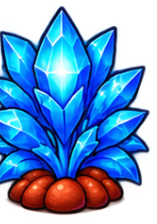
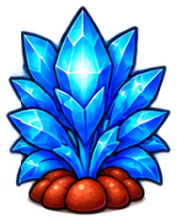
Preview locked planets and repair laboratory sprite framing

diff --git a/src/screens/PlanetsScreen.jsx b/src/screens/PlanetsScreen.jsx
@@ -5,7 +5,7 @@ import { PLANETS } from "../game/data/planets.js";
 import { EARTH_TUTORIAL_STAGE_ID } from "../game/data/missionIntro.js";
 import { playGameSound } from "../game/audio/audioManager.js";
 import { getPendingLaboratoryStage, hasLaboratoryAttention } from "../utils/laboratoryProgress.js";
-import { canNavigateToPlanet, getInitialExpandedPlanetId, getOrbitStage, getPlanetIdForStage, getPlanetSelectorModel, getStageClickAction } from "./planetSelectorModel.js";
+import { getAdjacentPlanets, getInitialExpandedPlanetId, getOrbitStage, getPlanetIdForStage, getPlanetSelectorModel, getStageClickAction } from "./planetSelectorModel.js";
 import { getMenuAssetUrl } from "./menuModel.js";
 import { getPauseAssetUrl, RETURN_ICON_FILE } from "./pauseModel.js";
 import { setOrbitTargetElement } from "./rocketOrbit.js";
@@ -58,9 +58,7 @@ export function PlanetsScreen({ progress, completedStageId, preferredPlanetId, p
   const planet = PLANETS.find(({ id }) => id === selectedPlanetId) ?? PLANETS[0];
   const model = getPlanetSelectorModel(planet, progress);
   const laboratoryAttention = hasLaboratoryAttention(progress);
-  const planetIndex = PLANETS.findIndex(({ id }) => id === planet.id);
-  const previousPlanet = PLANETS[planetIndex - 1];
-  const nextPlanet = PLANETS[planetIndex + 1];
+  const { previousPlanet, nextPlanet } = getAdjacentPlanets(planet.id);
   const numberFormat = new Intl.NumberFormat("pt-BR");
   const endlessRecord = `Recorde: ${numberFormat.format(model.endless.highScore)} pts`;
   const endlessLabel = model.endless.unlocked
@@ -75,15 +73,15 @@ export function PlanetsScreen({ progress, completedStageId, preferredPlanetId, p
     playGameSound("discovery");
   }, [model.unlocked, onMarkPlanetSeen, planet]);
 
-  const canGoBack = previousPlanet && canNavigateToPlanet(planet.id, previousPlanet.id, progress);
-  const canGoForward = nextPlanet && canNavigateToPlanet(planet.id, nextPlanet.id, progress);
   const activeStage = model.stages.find((stage) => stage.available && !stage.completed);
   const orbitStage = getOrbitStage(model.stages, selectedStageId);
   const showFirstStageHint = selectionGuide === "first-flight" && planet.id === "earth" && !progress.onboarding?.earthTutorialSeen;
   const showLaboratoryGuide = selectionGuide === "laboratory" && planet.id === "earth" && getPendingLaboratoryStage(planet, progress) !== null;
   const baseClass = `phase-selection-canvas phase-selection-canvas--${planet.id}${revealingPlanetId === planet.id ? " is-revealing" : ""}`;
 
-  const launchStage = (stageId, targetElement) => {
+  const launchStage = (stage, targetElement) => {
+    if (!stage.available) return;
+    const { id: stageId } = stage;
     setEndlessSelected(false);
     setOrbitTargetElement(activeStageElementRef, targetElement);
     if (getStageClickAction(selectedStageId, stageId) === "select") {
@@ -153,7 +151,7 @@ export function PlanetsScreen({ progress, completedStageId, preferredPlanetId, p
             <img className="phase-selection-identity__planet" src={`${APP_BASE}assets/ui/planets/${planet.id}-icon.webp`} alt="" aria-hidden="true" />
             <div className="phase-selection-identity__copy">
               <span className="phase-selection-identity__name">{planet.name}</span>
-              <span className="phase-selection-identity__subtitle">{PLANET_SUBTITLES[planet.id]}</span>
+              <span className="phase-selection-identity__subtitle">{model.unlocked ? PLANET_SUBTITLES[planet.id] : "Planeta bloqueado"}</span>
             </div>
           </div>
 
@@ -212,7 +210,7 @@ export function PlanetsScreen({ progress, completedStageId, preferredPlanetId, p
                   aria-describedby={guided ? "phase-selection-guide-hint" : undefined}
                   aria-pressed={selectedStageId === stage.id}
                   aria-label={`${planet.name}, fase ${stageIndex + 1}, ${stageStatusLabel(stage)}, ${selectedStageId === stage.id ? "selecionada, clique novamente para entrar" : "clique para selecionar"}`}
-                  onClick={(event) => launchStage(stage.id, event.currentTarget)}
+                  onClick={(event) => launchStage(stage, event.currentTarget)}
                 >
                   <img
                     className="phase-selection-stage__frame"
@@ -252,22 +250,22 @@ export function PlanetsScreen({ progress, completedStageId, preferredPlanetId, p
         <button
           type="button"
           className="phase-selection-arrow phase-selection-arrow--left"
-          disabled={!canGoBack}
+          disabled={!previousPlanet}
           onClick={() => previousPlanet && selectPlanet(previousPlanet.id)}
-          aria-label={canGoBack ? `Planeta anterior: ${previousPlanet.name}` : "Não há planeta anterior desbloqueado"}
+          aria-label={previousPlanet ? `Planeta anterior: ${previousPlanet.name}` : "Não há planeta anterior"}
         >
           <img src={`${APP_BASE}assets/ui/level-frames/arrow-left.webp`} alt="" aria-hidden="true" draggable="false" />
         </button>
         <button
           type="button"
           className="phase-selection-arrow phase-selection-arrow--right"
-          disabled={!canGoForward}
-          onClick={() => nextPlanet && canGoForward && selectPlanet(nextPlanet.id)}
-          aria-label={canGoForward ? `Próximo planeta: ${nextPlanet.name}` : "Conclua todas as fases para desbloquear o próximo planeta"}
+          disabled={!nextPlanet}
+          onClick={() => nextPlanet && selectPlanet(nextPlanet.id)}
+          aria-label={nextPlanet ? `Próximo planeta: ${nextPlanet.name}` : "Não há próximo planeta"}
         >
           <img src={`${APP_BASE}assets/ui/level-frames/arrow-right.webp`} alt="" aria-hidden="true" draggable="false" />
         </button>
-        <p className="visually-hidden" aria-live="polite">{model.progressLabel}</p>
+        <p className="visually-hidden" aria-live="polite">{planet.name}. {model.unlocked ? model.progressLabel : "Planeta bloqueado."}</p>
         {showFirstStageHint ? (
           <PhaseSelectionGuide kind="stage" targetRef={firstStageRef} message={selectedStageId === EARTH_TUTORIAL_STAGE_ID
             ? "Selecione de novo para decolar!" : "Selecione o Nível 1 da Terra!"} />

diff --git a/src/screens/planetSelectorModel.test.js b/src/screens/planetSelectorModel.test.js
@@ -2,7 +2,7 @@ import assert from "node:assert/strict";
 import test from "node:test";
 import { PLANETS } from "../game/data/planets.js";
 import { createDefaultProgress } from "../utils/storage.js";
-import { canNavigateToPlanet, getInitialExpandedPlanetId, getOrbitStage, getPlanetIdForStage, getPlanetSelectorModel, getStageClickAction } from "./planetSelectorModel.js";
+import { getAdjacentPlanets, getInitialExpandedPlanetId, getOrbitStage, getPlanetIdForStage, getPlanetSelectorModel, getStageClickAction } from "./planetSelectorModel.js";
 
 test("selector shows three campaign phases and a locked endless mode on a new save", () => {
   const progress = createDefaultProgress();
@@ -51,26 +51,22 @@ test("selector can return to the planet containing the phase just completed", ()
   assert.equal(getPlanetIdForStage("unknown-stage"), null);
 });
 
-test("planet navigation only permits adjacent unlocked planets and gates forward travel on completion", () => {
-  const progress = createDefaultProgress();
-  progress.unlockedPlanetIds = ["earth", "mars"];
-
-  assert.equal(canNavigateToPlanet("earth", "mars", progress), false);
-  assert.equal(canNavigateToPlanet("earth", "saturn", progress), false);
-  assert.equal(canNavigateToPlanet("mars", "earth", progress), true);
-
-  progress.completedStageIds = PLANETS[0].stages.map(({ id }) => id);
-  assert.equal(canNavigateToPlanet("earth", "mars", progress), true);
-  assert.equal(canNavigateToPlanet("mars", "saturn", progress), false);
+test("as setas mostram os vizinhos de qualquer planeta, sem dar a volta nas extremidades", () => {
+  const [earth, mars, saturn, neptune] = PLANETS;
+  assert.deepEqual(getAdjacentPlanets("earth"), { previousPlanet: null, nextPlanet: mars });
+  assert.deepEqual(getAdjacentPlanets("mars"), { previousPlanet: earth, nextPlanet: saturn });
+  assert.deepEqual(getAdjacentPlanets("saturn"), { previousPlanet: mars, nextPlanet: neptune });
+  assert.deepEqual(getAdjacentPlanets("neptune"), { previousPlanet: saturn, nextPlanet: null });
 });
 
-test("planet navigation rejects locked sources and non-adjacent destinations", () => {
+test("visitar planetas bloqueados não libera fases nem o modo infinito", () => {
   const progress = createDefaultProgress();
-  progress.unlockedPlanetIds = ["earth", "mars", "saturn"];
-  progress.completedStageIds = PLANETS[0].stages.map(({ id }) => id);
-
-  assert.equal(canNavigateToPlanet("earth", "saturn", progress), false);
-  assert.equal(canNavigateToPlanet("neptune", "saturn", progress), false);
+  for (const planet of PLANETS.slice(1)) {
+    const model = getPlanetSelectorModel(planet, progress);
+    assert.ok(model.stages.every(({ available, status }) => !available && status === "locked"));
+    assert.equal(model.endless.unlocked, false);
+    assert.equal(getOrbitStage(model.stages, planet.stages[0].id), undefined);
+  }
 });
 
 test("a phase needs a first click to select and a second click to enter", () => {

diff --git a/src/screens/planetSelectorModel.js b/src/screens/planetSelectorModel.js
@@ -9,10 +9,10 @@ export function getStageClickAction(selectedStageId, clickedStageId) {
 }
 
 export function getOrbitStage(stages, selectedStageId) {
-  return stages.find((stage) => stage.id === selectedStageId)
-    ?? stages.find((stage) => stage.available && !stage.completed)
-    ?? stages.find((stage) => !stage.completed)
-    ?? stages.at(-1);
+  const available = stages.filter((stage) => stage.available);
+  return available.find((stage) => stage.id === selectedStageId)
+    ?? available.find((stage) => !stage.completed)
+    ?? available.at(-1);
 }
 
 export function getInitialExpandedPlanetId(progress, planets = PLANETS) {
@@ -21,13 +21,12 @@ export function getInitialExpandedPlanetId(progress, planets = PLANETS) {
   return nextPlanet?.id ?? unlocked.at(-1)?.id ?? planets[0]?.id ?? null;
 }
 
-export function canNavigateToPlanet(fromPlanetId, toPlanetId, progress, planets = PLANETS) {
-  const fromIndex = planets.findIndex((planet) => planet.id === fromPlanetId);
-  const toIndex = planets.findIndex((planet) => planet.id === toPlanetId);
-  if (fromIndex < 0 || toIndex < 0 || Math.abs(fromIndex - toIndex) !== 1) return false;
-  if (!progress.unlockedPlanetIds.includes(fromPlanetId) || !progress.unlockedPlanetIds.includes(toPlanetId)) return false;
-  if (toIndex < fromIndex) return true;
-  return isPlanetComplete(planets[fromIndex], progress.completedStageIds);
+export function getAdjacentPlanets(planetId, planets = PLANETS) {
+  const index = planets.findIndex((planet) => planet.id === planetId);
+  return {
+    previousPlanet: planets[index - 1] ?? null,
+    nextPlanet: index < 0 ? null : planets[index + 1] ?? null,
+  };
 }
 
 export function canPlayEndless(planet, progress) {
